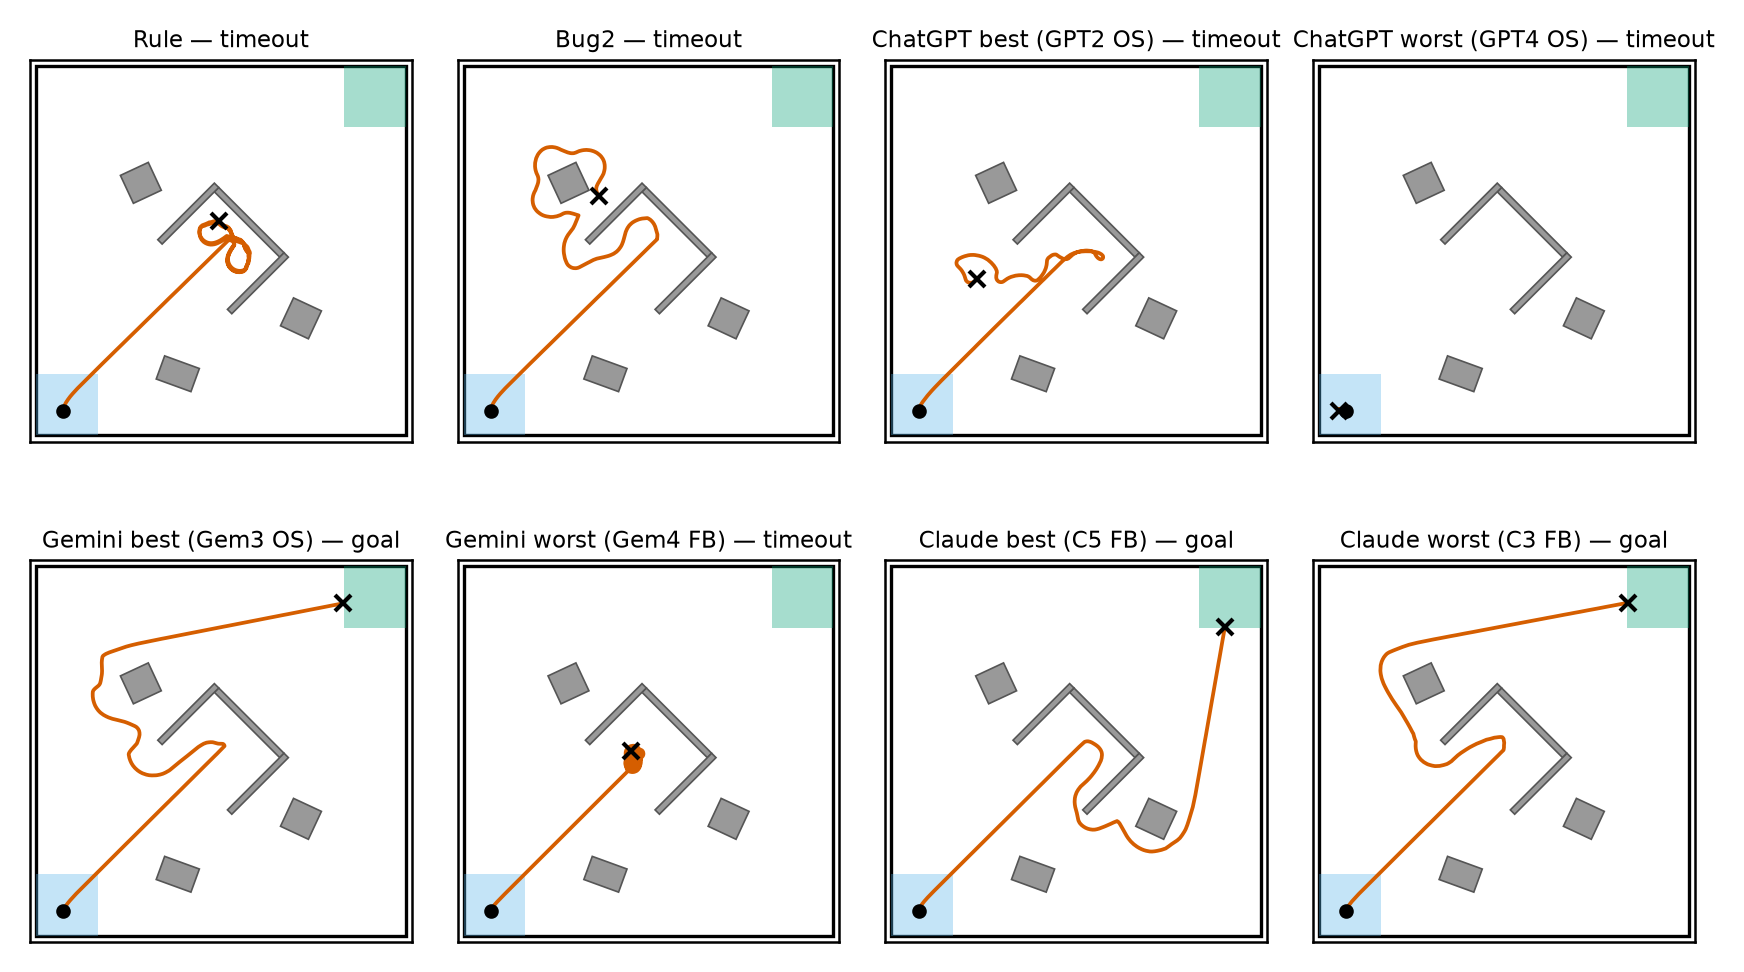
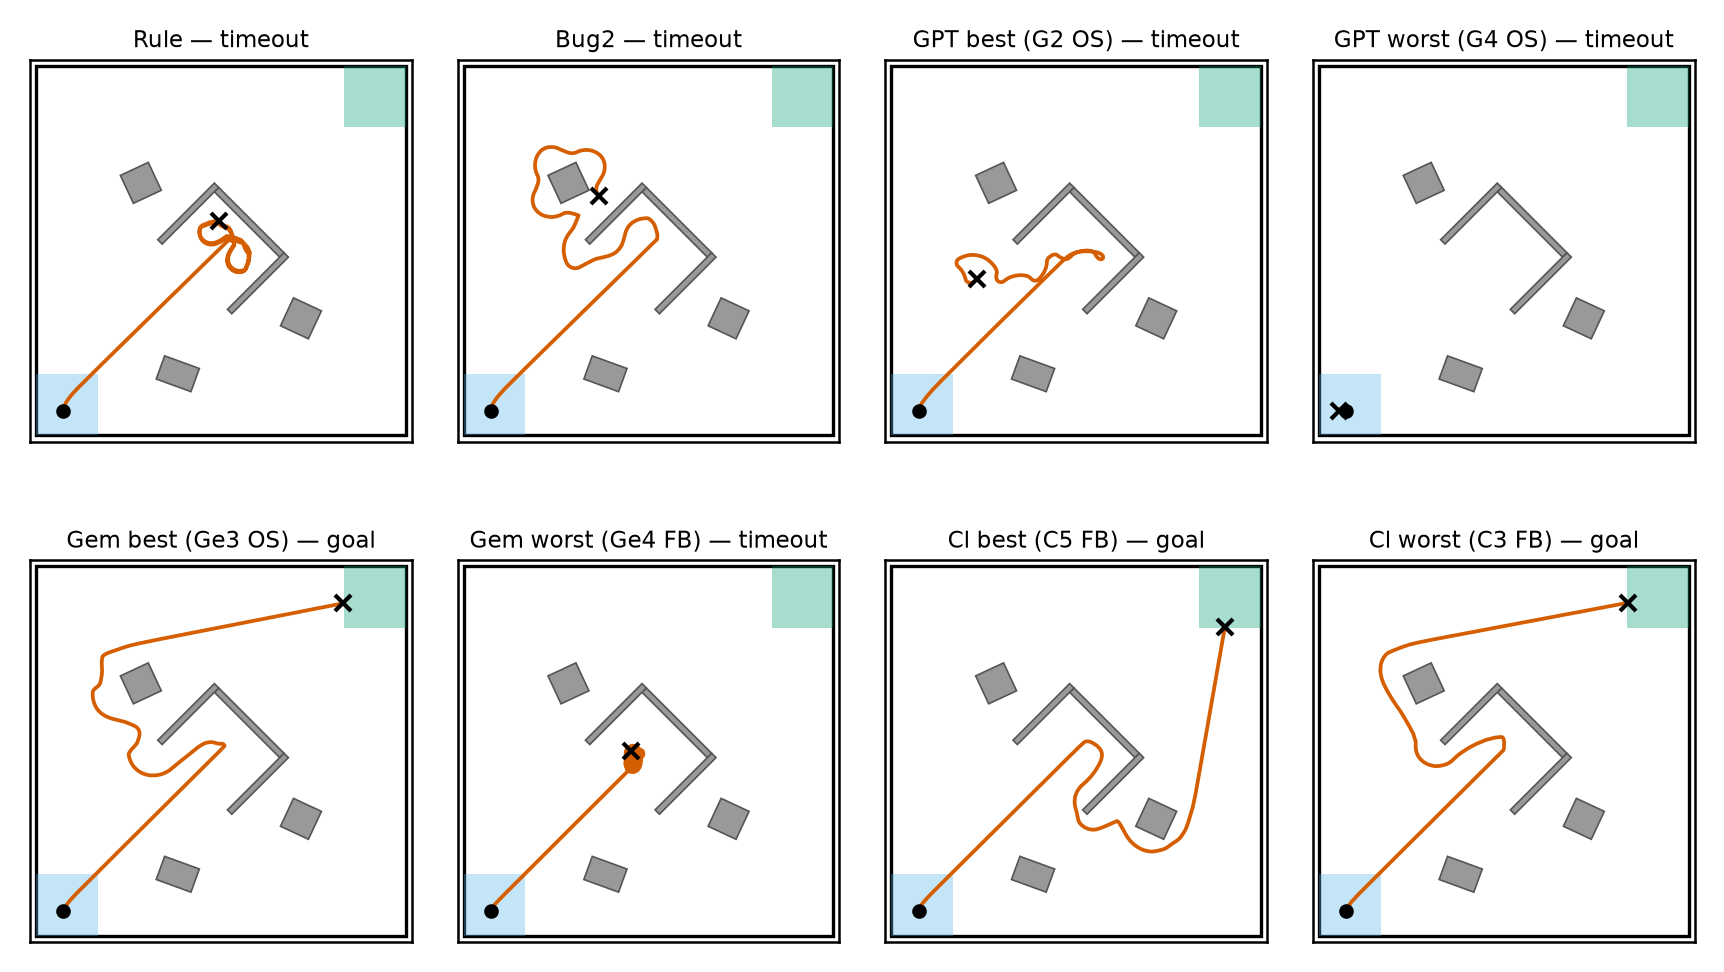
Fig 4: shorter panel titles (e.g. GPT best (G2 OS))

diff --git a/analysis/analyze.py b/analysis/analyze.py
@@ -474,7 +474,8 @@ for bot in BOTS:
     sel.append((bot + " worst", cs[-1]))
 m4 = df[(df["map"] == "M4_Trap") & (df["noise"] == 0.05) & (df["seed"] == 1)].set_index("controller")
 fig, axes = plt.subplots(2, 4, figsize=(7.16, 3.9))          # double-column width
-SHORT = {"ChatGPT": "GPT", "Gemini": "Gem", "Claude": "C"}
+SHORT = {"ChatGPT": "GPT", "Gemini": "Gem", "Claude": "Cl"}
+SHORTID = {"ChatGPT": "G", "Gemini": "Ge", "Claude": "C"}
 for ax, (title, c) in zip(axes.ravel(), sel):
     for x, z, deg, sx, sz in obst:
         ax.add_patch(Polygon(box_corners(float(x), float(z), float(deg), float(sx), float(sz)), closed=True, fc="#999999", ec="#555555", lw=0.4))
@@ -488,7 +489,7 @@ for ax, (title, c) in zip(axes.ravel(), sel):
     ax.set_xlim(-3.1, 3.1); ax.set_ylim(-3.1, 3.1); ax.set_aspect("equal"); ax.set_xticks([]); ax.set_yticks([])
     if c.startswith("LLM_"):
         _, bot_, att_, cnd_ = c.split("_")
-        title = "%s (%s%s %s)" % (title, SHORT[bot_], att_, cnd_)
+        title = "%s %s (%s%s %s)" % (SHORT[bot_], title.split()[-1], SHORTID[bot_], att_, cnd_)
     ax.set_title("%s — %s" % (title, m4.loc[c, "outcome"]), fontsize=5.6, pad=3)
 fig.subplots_adjust(hspace=0.25, wspace=0.12)
 savefig(fig, "fig4_example_paths_M4")
